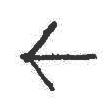
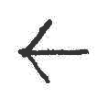
Lighthouse fixes

diff --git a/src/pages/index.tsx b/src/pages/index.tsx
@@ -30,8 +30,8 @@ export default function Landing ({ files }: Props) {
         <Image
           src="images/handwritten/Arrows Left Black.png"
           alt="Previous image"
-          width="50"
-          height="50"
+          width="100"
+          height="100"
         />
       </button>
     }
@@ -40,8 +40,8 @@ export default function Landing ({ files }: Props) {
         <Image
           src="images/handwritten/Arrows Right Black.png"
           alt="Next image"
-          width="50"
-          height="50"
+          width="100"
+          height="100"
         />
       </button>
     }
